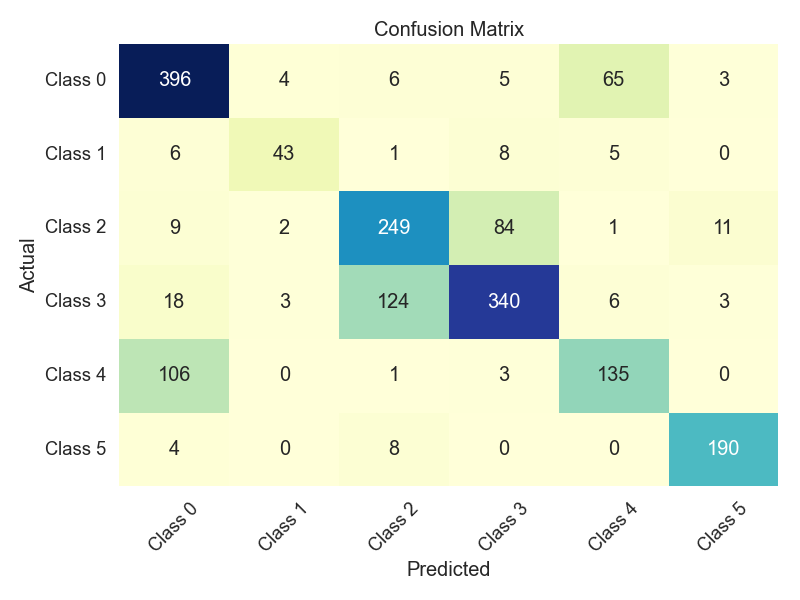
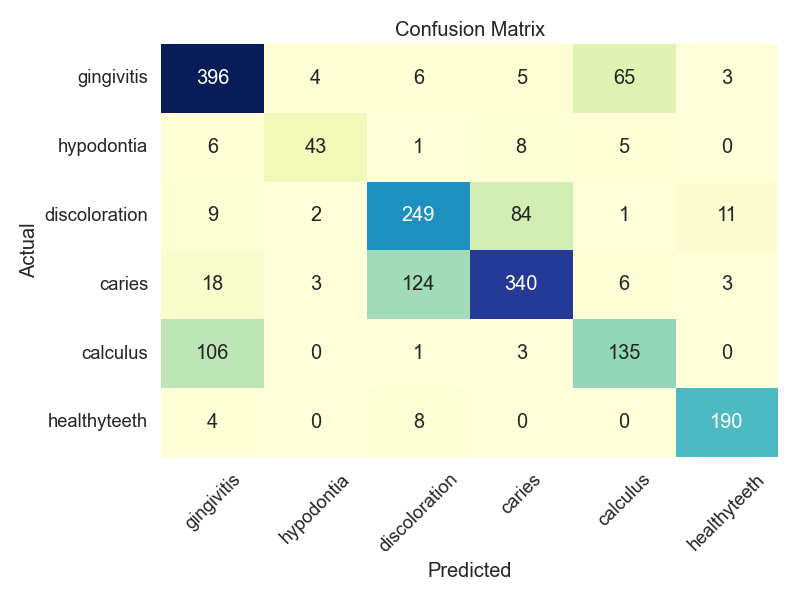
update figures

diff --git a/validation_outputs/confusionmatrix.py b/validation_outputs/confusionmatrix.py
@@ -1,0 +1,36 @@
+import numpy as np
+import matplotlib.pyplot as plt
+import seaborn as sns
+
+
+# confusion matrix
+
+confusion_matrix = np.array([[396, 4, 6, 5, 65, 3],
+                            [6, 43, 1, 8, 5, 0],
+                            [9, 2, 249, 84, 1, 11],
+                            [18, 3, 124, 340, 6, 3],
+                            [106, 0, 1, 3, 135, 0],
+                            [4, 0, 8, 0, 0, 190]])
+
+
+plt.figure(figsize=(8, 6))
+sns.set(font_scale=1.2)
+
+# Create a heatmap with annotations and an adjusted color map
+sns.heatmap(confusion_matrix, annot=True, fmt='d', cmap='YlGnBu', cbar=False,
+            xticklabels=["gingivitis", "hypodontia", "discoloration", "caries", "calculus", "healthyteeth"],
+            yticklabels=["gingivitis", "hypodontia", "discoloration", "caries", "calculus", "healthyteeth"])
+
+plt.xlabel('Predicted')
+plt.ylabel('Actual')
+plt.title('Confusion Matrix')
+
+# Improve readability by rotating x and y tick labels
+plt.xticks(rotation=45)
+plt.yticks(rotation=0)
+
+# Adjust spacing to prevent cutoff of labels
+plt.tight_layout()
+
+plt.savefig('Confusion_Matrix.png', dpi=300, bbox_inches='tight')
+plt.show()

diff --git a/validation_outputs/plot_validation.py b/validation_outputs/plot_validation.py
@@ -53,8 +53,8 @@ sns.set(font_scale=1.2)
 
 # Create a heatmap with annotations and an adjusted color map
 sns.heatmap(confusion_matrix, annot=True, fmt='d', cmap='YlGnBu', cbar=False,
-            xticklabels=['Class 0', 'Class 1', 'Class 2', 'Class 3', 'Class 4', 'Class 5'],
-            yticklabels=['Class 0', 'Class 1', 'Class 2', 'Class 3', 'Class 4', 'Class 5'])
+            xticklabels=["gingivitis", "hypodontia", "discoloration", "caries", "calculus", "healthyteeth"],
+            yticklabels=["gingivitis", "hypodontia", "discoloration", "caries", "calculus", "healthyteeth"])
 
 plt.xlabel('Predicted')
 plt.ylabel('Actual')
